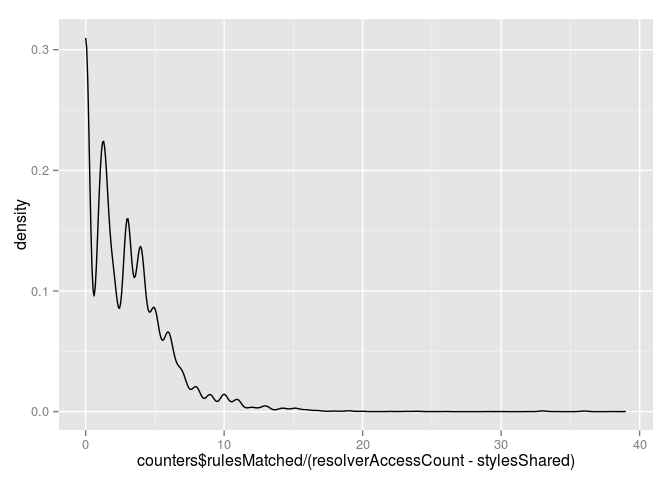
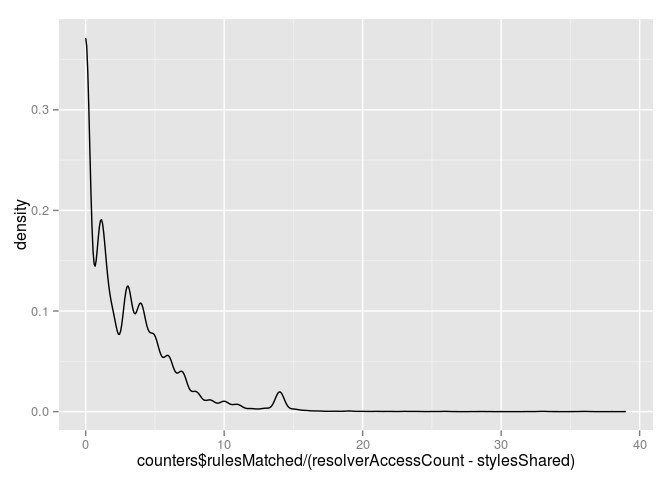
Regenerate style report

diff --git a/style.md b/style.md
@@ -1,4 +1,4 @@
-Based on 28202 `Document::updateStyle` observations over 801 runs.
+Based on 50380 `Document::updateStyle` observations over 1200 runs.
 
 Style update
 ------------
@@ -8,12 +8,12 @@ Style update
 Rail
 ----
 
-Found 3266 RAIL interaction records. 18.55% of observations were not classified:
+Found 4880 RAIL interaction records. 27.36% of observations were not classified:
 
--   214 response
--   211 animate
--   1387 idle
--   1454 load
+-   229 response
+-   232 animate
+-   2099 idle
+-   2320 load
 
 Individual observations:
 
@@ -26,30 +26,30 @@ Aggregated by RAIL iteraction record:
 Callees
 -------
 
-2.3% of thread time spent in traced children.
+4.71% of thread time spent in traced children.
 
 ![](style_files/figure-markdown_github/unnamed-chunk-7-1.png)
 
 Callers
 -------
 
-There were 361 unique trace stacks. 45.73% of stacks and 42.61% of thread time involves `V8.Execute`.
+There were 511 unique trace stacks. 39.65% of stacks and 44.25% of thread time involves `V8.Execute`.
 
 ![](style_files/figure-markdown_github/unnamed-chunk-9-1.png)
 
 Style Sharing
 -------------
 
-Style sharing rate: 19.4%
+Style sharing rate: 18.25%
 
 ![](style_files/figure-markdown_github/unnamed-chunk-11-1.png) ![](style_files/figure-markdown_github/unnamed-chunk-11-2.png) ![](style_files/figure-markdown_github/unnamed-chunk-11-3.png)
 
 Matched properties cache
 ------------------------
 
-Non-inherited hit rate: 62.93%
+Non-inherited hit rate: 61.35%
 
-Inherited hit rate: 37.04%
+Inherited hit rate: 36.66%
 
 ![](style_files/figure-markdown_github/unnamed-chunk-12-1.png) ![](style_files/figure-markdown_github/unnamed-chunk-12-2.png) ![](style_files/figure-markdown_github/unnamed-chunk-12-3.png)
 
@@ -58,9 +58,9 @@ Rules matched / rejected
 
 Of the rules considered:
 
--   6.97% matched
--   68.85% were rejected by the bloom filter
--   24.18% were rejected by evaluation
+-   7.13% matched
+-   68.26% were rejected by the bloom filter
+-   24.61% were rejected by evaluation
 
 ![](style_files/figure-markdown_github/unnamed-chunk-14-1.png) ![](style_files/figure-markdown_github/unnamed-chunk-14-2.png) ![](style_files/figure-markdown_github/unnamed-chunk-14-3.png)
 
@@ -69,8 +69,8 @@ Styles un/changed
 
 Warning: This section isn't entirely accurate yet.
 
-Based on 12589 `Document::updateStyle` observations.
+Based on 34751 `Document::updateStyle` observations.
 
-20.69% of styles produced were identical to the previous state.
+17.57% of styles produced were identical to the previous state.
 
 ![](style_files/figure-markdown_github/unnamed-chunk-16-1.png)
